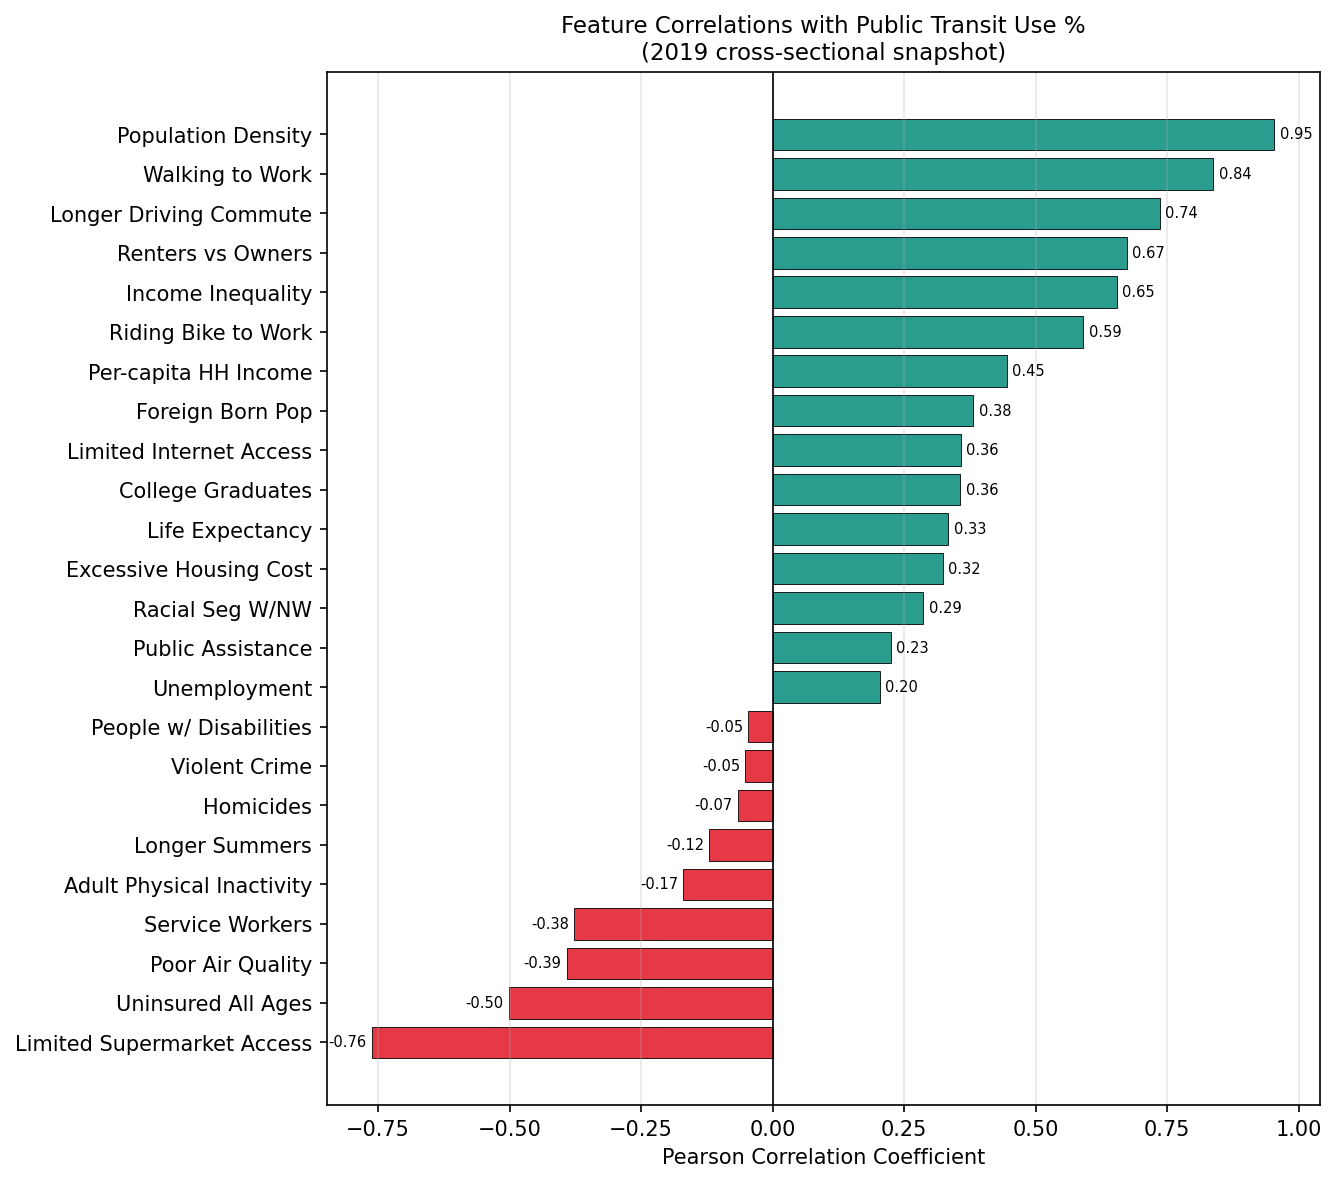
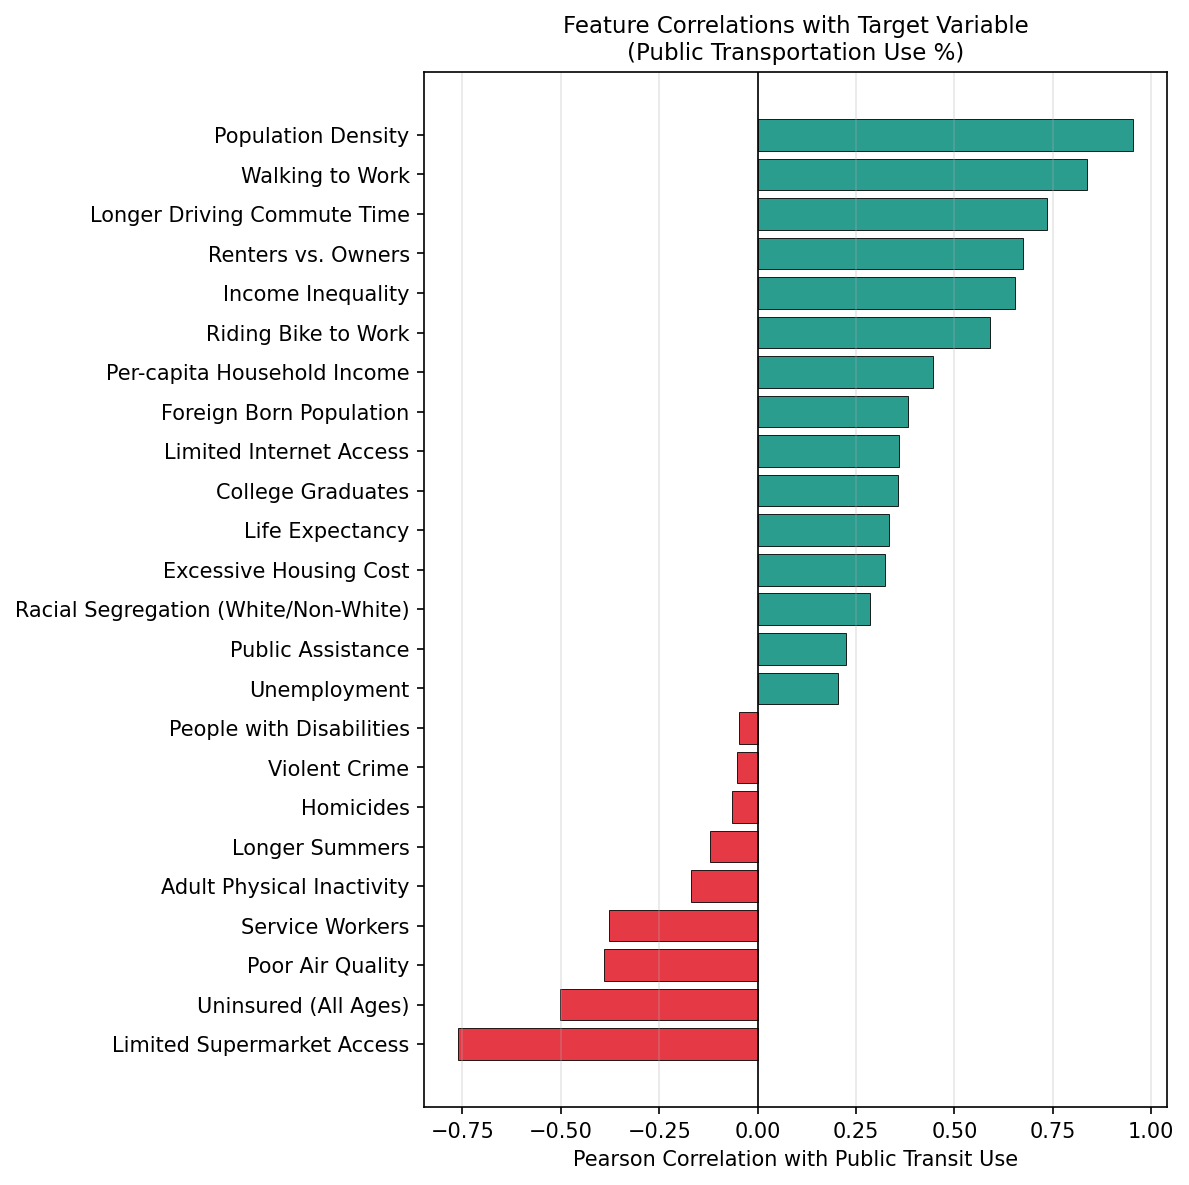
Remove Ridge and Lasso; scope supervised learning to OLS, KNN, Random Forest

diff --git a/supervised/supervised_learning.py b/supervised/supervised_learning.py
@@ -11,6 +11,7 @@ Dataset: Big Cities Health Inventory  (bigcitieshealthdata.org)
 # =============================================================================
 # 0. Imports
 # =============================================================================
+import os
 import warnings
 warnings.filterwarnings("ignore")
 
@@ -20,7 +21,7 @@ import matplotlib.pyplot as plt
 import matplotlib.cm as cm
 import seaborn as sns
 
-from sklearn.linear_model import LinearRegression, Ridge, Lasso
+from sklearn.linear_model import LinearRegression
 from sklearn.neighbors import KNeighborsRegressor
 from sklearn.ensemble import RandomForestRegressor
 from sklearn.preprocessing import StandardScaler
@@ -35,79 +36,41 @@ SEED = 42
 np.random.seed(SEED)
 
 # =============================================================================
-# 1. Data Loading & Pivoting
+# 1. Data Loading
 # =============================================================================
 
-RAW_PATH = "/mnt/user-data/uploads/BigCitiesHealth.csv"
+_HERE    = os.path.dirname(os.path.abspath(__file__))
+DATA_PATH = os.path.join(_HERE, "..", "data", "cities_features_2019.csv")
+OUT_DIR   = os.path.join(_HERE, "outputs")
 
-# --- feature map: descriptive name → exact metric_item_label in dataset ---
-FEATURE_MAP = {
-    "People with Disabilities":             "People with Disabilities",
-    "Adult Physical Inactivity":            "Adult Physical Inactivity",
-    "Life Expectancy":                      "Life Expectancy",
-    "Homicides":                            "Homicides",
-    "Violent Crime":                        "Violent Crime",
-    "Unemployment":                         "Unemployment",
-    "Public Assistance":                    "Public Assistance",
-    "Service Workers":                      "Service Workers",
-    "Excessive Housing Cost":               "Excessive Housing Cost",
-    "Income Inequality":                    "Income Inequality",
-    "Racial Segregation (White/Non-White)": "Racial Segregation, White and Non-White",
-    "Limited Internet Access":              "Limited Internet Access",
-    "College Graduates":                    "College Graduates",
-    "Renters vs. Owners":                   "Renters vs. Owners",
-    "Longer Summers":                       "Longer Summers",
-    "Poor Air Quality":                     "Poor Air Quality",
-    "Longer Driving Commute Time":          "Longer Driving Commute Time",
-    "Walking to Work":                      "Walking to Work",       # proxy for Walkability
-    "Riding Bike to Work":                  "Riding Bike to Work",   # proxy for Bikeability
-    "Limited Supermarket Access":           "Limited Supermarket Access",
-    "Foreign Born Population":              "Foreign Born Population",
-    "Per-capita Household Income":          "Per-capita Household Income",
-    "Population Density":                   "Population Density",
-    "Uninsured (All Ages)":                 "Uninsured, All Ages",
-}
+FEATURE_COLS = [
+    "People with Disabilities", "Adult Physical Inactivity", "Life Expectancy",
+    "Homicides", "Violent Crime", "Unemployment", "Public Assistance",
+    "Service Workers", "Excessive Housing Cost", "Income Inequality",
+    "Racial Segregation (White/Non-White)", "Limited Internet Access",
+    "College Graduates", "Renters vs. Owners", "Longer Summers", "Poor Air Quality",
+    "Longer Driving Commute Time", "Walking to Work", "Riding Bike to Work",
+    "Limited Supermarket Access", "Foreign Born Population",
+    "Per-capita Household Income", "Population Density", "Uninsured (All Ages)",
+]
 
-TARGET_METRIC = "Public Transportation Use"
-
-# Year to use for the cross-sectional snapshot
-# 2019 is the last "normal" pre-COVID year with near-complete coverage
-SNAPSHOT_YEAR = 2019
-
-print("Loading raw data …")
-df_raw = pd.read_csv(RAW_PATH, low_memory=False)
-
-def extract_metric(df, metric_label, year=SNAPSHOT_YEAR):
-    """Return city → value Series for a given metric/year (All race, Both sex)."""
-    mask = (
-        (df["metric_item_label"] == metric_label) &
-        (df["date_label"] == year) &
-        (df["strata_race_label"] == "All") &
-        (df["strata_sex_label"] == "Both") &
-        (df["geo_label_citystate"] != "U.S. Total")
-    )
-    sub = df.loc[mask, ["geo_label_citystate", "value"]].dropna()
-    # If a city appears more than once (shouldn't happen for All/Both), take mean
-    return sub.groupby("geo_label_citystate")["value"].mean()
-
-# Build feature matrix
-frames = {}
-for feat_name, metric_label in FEATURE_MAP.items():
-    frames[feat_name] = extract_metric(df_raw, metric_label)
-
-frames["Public Transportation Use"] = extract_metric(df_raw, TARGET_METRIC)
-
-df_wide = pd.DataFrame(frames).dropna()   # keep only cities with full data
-print(f"\nSnapshot year : {SNAPSHOT_YEAR}")
-print(f"Cities retained (no missing): {len(df_wide)}")
-print(f"Features: {len(FEATURE_MAP)}\n")
+print("Loading data …")
+df_wide = pd.read_csv(DATA_PATH, index_col=0).rename(columns={
+    "People w/ Disabilities":  "People with Disabilities",
+    "Racial Seg W/NW":         "Racial Segregation (White/Non-White)",
+    "Renters vs Owners":       "Renters vs. Owners",
+    "Longer Driving Commute":  "Longer Driving Commute Time",
+    "Foreign Born Pop":        "Foreign Born Population",
+    "Per-capita HH Income":    "Per-capita Household Income",
+    "Uninsured All Ages":      "Uninsured (All Ages)",
+    "Transit":                 "Public Transportation Use",
+})
+print(f"Cities: {len(df_wide)}   Features: {len(FEATURE_COLS)}\n")
 print(df_wide[["Public Transportation Use"]].sort_values("Public Transportation Use", ascending=False).to_string())
 
 # =============================================================================
 # 2. Feature Matrix & Target
 # =============================================================================
-
-FEATURE_COLS = list(FEATURE_MAP.keys())
 
 X_raw = df_wide[FEATURE_COLS].values
 y     = df_wide["Public Transportation Use"].values
@@ -147,7 +110,7 @@ def kfold_eval(model, X, y, k=5, model_name=""):
     return rmse_scores, r2_scores
 
 # =============================================================================
-# 4. MODEL A – Linear Regression (OLS, Ridge, Lasso)
+# 4. MODEL A – Linear Regression (OLS)
 # =============================================================================
 print("\n" + "="*65)
 print("MODEL A: Linear Regression")
@@ -161,34 +124,10 @@ print(f"\n  OLS in-sample  R² = {r2_score(y, y_ols_full):.3f}")
 
 ols_rmse, ols_r2, ols_preds = loo_eval(LinearRegression(), X_scaled, y, "OLS")
 
-# --- 4b. Ridge (alpha tuned via LOO) ---
-alphas = np.logspace(-2, 4, 40)
-ridge_scores = []
-for a in alphas:
-    _, r2_a, _ = loo_eval(Ridge(alpha=a), X_scaled, y, f"Ridge α={a:.3f}")
-    ridge_scores.append(r2_a)
-best_ridge_alpha = alphas[np.argmax(ridge_scores)]
-ridge = Ridge(alpha=best_ridge_alpha)
-ridge_rmse, ridge_r2, ridge_preds = loo_eval(ridge, X_scaled, y, f"Ridge (α={best_ridge_alpha:.3f})")
-
-# --- 4c. Lasso (alpha tuned via LOO) ---
-lasso_scores = []
-for a in alphas:
-    _, r2_a, _ = loo_eval(Lasso(alpha=a, max_iter=10000), X_scaled, y, f"Lasso α={a:.3f}")
-    lasso_scores.append(r2_a)
-best_lasso_alpha = alphas[np.argmax(lasso_scores)]
-lasso = Lasso(alpha=best_lasso_alpha, max_iter=10000)
-lasso_rmse, lasso_r2, lasso_preds = loo_eval(lasso, X_scaled, y, f"Lasso (α={best_lasso_alpha:.3f})")
-
-print(f"\n  Best Ridge α : {best_ridge_alpha:.4f}")
-print(f"  Best Lasso α : {best_lasso_alpha:.4f}")
-
 # OLS coefficients
-ridge.fit(X_scaled, y)
 coef_df = pd.DataFrame({
-    "Feature": FEATURE_COLS,
-    "OLS Coef":   ols.coef_,
-    "Ridge Coef": ridge.coef_,
+    "Feature":  FEATURE_COLS,
+    "OLS Coef": ols.coef_,
 }).sort_values("OLS Coef", key=abs, ascending=False)
 print("\n  Top-10 OLS coefficients (absolute value):")
 print(coef_df.head(10).to_string(index=False))
@@ -262,10 +201,9 @@ print("\n" + "="*65)
 print("SUMMARY: LOO CV Performance")
 print("="*65)
 summary = pd.DataFrame({
-    "Model":     ["OLS", f"Ridge (α={best_ridge_alpha:.4f})", f"Lasso (α={best_lasso_alpha:.4f})",
-                  f"KNN (k={best_k})", "Random Forest"],
-    "LOO-RMSE":  [ols_rmse, ridge_rmse, lasso_rmse, knn_rmse, rf_rmse],
-    "LOO-R²":    [ols_r2,   ridge_r2,   lasso_r2,   knn_r2,   rf_r2],
+    "Model":    ["OLS", f"KNN (k={best_k})", "Random Forest"],
+    "LOO-RMSE": [ols_rmse, knn_rmse, rf_rmse],
+    "LOO-R²":   [ols_r2,   knn_r2,   rf_r2],
 })
 print(summary.to_string(index=False))
 
@@ -306,19 +244,17 @@ def city_color(city):
     region = REGION.get(city, "Other")
     return REGION_COLORS[region]
 
-fig, axes = plt.subplots(2, 3, figsize=(18, 11))
+fig, axes = plt.subplots(1, 4, figsize=(22, 6))
 fig.suptitle("Supervised Learning: Predicting Public Transit Use\nLinear Algebros — Miguel Cuevas", fontsize=14, fontweight="bold")
 
 # --- 8a. Actual vs Predicted for each model ---
 model_preds = {
-    "OLS":            ols_preds,
-    f"Ridge":         ridge_preds,
-    f"Lasso":         lasso_preds,
+    "OLS":               ols_preds,
     f"KNN (k={best_k})": knn_preds,
-    "Random Forest":  rf_preds,
+    "Random Forest":     rf_preds,
 }
 
-ax_pairs = [axes[0,0], axes[0,1], axes[0,2], axes[1,0], axes[1,1]]
+ax_pairs = [axes[0], axes[1], axes[2]]
 for ax, (mname, preds) in zip(ax_pairs, model_preds.items()):
     colors = [city_color(c) for c in cities]
     ax.scatter(y, preds, c=colors, s=60, edgecolors="k", linewidths=0.4, zorder=3)
@@ -333,7 +269,7 @@ for ax, (mname, preds) in zip(ax_pairs, model_preds.items()):
     r2_val = 1 - ss_res/ss_tot
     ax.set_xlabel("Actual % Public Transit Use", fontsize=9)
     ax.set_ylabel("LOO-Predicted %", fontsize=9)
-    ax.set_title(f"{mname}\nLOO-RMSE={rmse_val:.2f}, R²={r2_loo:.3f}", fontsize=9)
+    ax.set_title(f"{mname}\nLOO-RMSE={rmse_val:.2f}, R²={r2_val:.3f}", fontsize=9)
     ax.grid(alpha=0.3)
     # region legend once
     if mname == "OLS":
@@ -342,12 +278,12 @@ for ax, (mname, preds) in zip(ax_pairs, model_preds.items()):
         ax.legend(handles=handles, fontsize=6, loc="upper left", framealpha=0.7)
 
 # --- 8b. Model comparison bar chart ---
-ax6 = axes[1,2]
-model_names_short = ["OLS", "Ridge", "Lasso", f"KNN\n(k={best_k})", "RF"]
-rmse_vals = [ols_rmse, ridge_rmse, lasso_rmse, knn_rmse, rf_rmse]
-r2_vals   = [ols_r2,   ridge_r2,   lasso_r2,   knn_r2,   rf_r2]
+ax6 = axes[3]
+model_names_short = ["OLS", f"KNN\n(k={best_k})", "RF"]
+rmse_vals = [ols_rmse, knn_rmse, rf_rmse]
+r2_vals   = [ols_r2,   knn_r2,   rf_r2]
 x_pos = np.arange(len(model_names_short))
-bars = ax6.bar(x_pos, rmse_vals, color=["#4c72b0","#55a868","#c44e52","#8172b2","#ccb974"],
+bars = ax6.bar(x_pos, rmse_vals, color=["#4c72b0","#8172b2","#ccb974"],
                edgecolor="k", linewidth=0.6, width=0.55)
 ax6.set_xticks(x_pos)
 ax6.set_xticklabels(model_names_short, fontsize=9)
@@ -359,7 +295,7 @@ for bar, r2v in zip(bars, r2_vals):
              f"R²={r2v:.2f}", ha="center", va="bottom", fontsize=7.5)
 
 plt.tight_layout()
-plt.savefig("/mnt/user-data/outputs/miguel_actual_vs_predicted.png", dpi=150, bbox_inches="tight")
+plt.savefig(os.path.join(OUT_DIR, "miguel_actual_vs_predicted.png"), dpi=150, bbox_inches="tight")
 plt.close()
 print("\nSaved: miguel_actual_vs_predicted.png")
 
@@ -396,7 +332,7 @@ ax.set_title("OLS Coefficients\n(standardized)", fontsize=10)
 ax.grid(axis="x", alpha=0.3)
 
 plt.tight_layout()
-plt.savefig("/mnt/user-data/outputs/miguel_feature_importance.png", dpi=150, bbox_inches="tight")
+plt.savefig(os.path.join(OUT_DIR, "miguel_feature_importance.png"), dpi=150, bbox_inches="tight")
 plt.close()
 print("Saved: miguel_feature_importance.png")
 
@@ -410,29 +346,11 @@ ax.set_title("KNN: Choosing k via Leave-One-Out CV", fontsize=11)
 ax.legend(fontsize=9)
 ax.grid(alpha=0.3)
 plt.tight_layout()
-plt.savefig("/mnt/user-data/outputs/miguel_knn_k_selection.png", dpi=150, bbox_inches="tight")
+plt.savefig(os.path.join(OUT_DIR, "miguel_knn_k_selection.png"), dpi=150, bbox_inches="tight")
 plt.close()
 print("Saved: miguel_knn_k_selection.png")
 
-# --- 8e. Ridge/Lasso alpha tuning ---
-fig, axes3 = plt.subplots(1, 2, figsize=(12, 4))
-for ax, scores, best_a, label, color in [
-    (axes3[0], ridge_scores, best_ridge_alpha, "Ridge", "#55a868"),
-    (axes3[1], lasso_scores, best_lasso_alpha, "Lasso", "#c44e52"),
-]:
-    ax.semilogx(alphas, scores, "o-", color=color, lw=2, ms=4)
-    ax.axvline(best_a, color="k", lw=1.5, linestyle="--", label=f"Best α={best_a:.4f}")
-    ax.set_xlabel("α (regularization strength)", fontsize=10)
-    ax.set_ylabel("LOO-R²", fontsize=10)
-    ax.set_title(f"{label}: Choosing α via LOO CV", fontsize=11)
-    ax.legend(fontsize=9)
-    ax.grid(alpha=0.3)
-plt.tight_layout()
-plt.savefig("/mnt/user-data/outputs/miguel_regularization_tuning.png", dpi=150, bbox_inches="tight")
-plt.close()
-print("Saved: miguel_regularization_tuning.png")
-
-# --- 8f. Correlation heatmap of features vs target ---
+# --- 8e. Correlation heatmap of features vs target ---
 corr_data = df_wide[FEATURE_COLS + ["Public Transportation Use"]].corr()
 target_corr = corr_data["Public Transportation Use"].drop("Public Transportation Use").sort_values()
 fig, ax = plt.subplots(figsize=(8, 8))
@@ -443,13 +361,9 @@ ax.set_xlabel("Pearson Correlation with Public Transit Use", fontsize=10)
 ax.set_title("Feature Correlations with Target Variable\n(Public Transportation Use %)", fontsize=11)
 ax.grid(axis="x", alpha=0.3)
 plt.tight_layout()
-plt.savefig("/mnt/user-data/outputs/miguel_feature_correlations.png", dpi=150, bbox_inches="tight")
+plt.savefig(os.path.join(OUT_DIR, "miguel_feature_correlations.png"), dpi=150, bbox_inches="tight")
 plt.close()
 print("Saved: miguel_feature_correlations.png")
 
-# --- 8g. Save cleaned wide-format data for teammates ---
-df_wide.to_csv("/mnt/user-data/outputs/cities_features_2019.csv")
-print("Saved: cities_features_2019.csv  (pivot table for teammates)")
-
-print("\n✓ All outputs written to /mnt/user-data/outputs/")
+print(f"\n✓ All outputs written to {OUT_DIR}")
 print("\nDone.")

diff --git a/README.md b/README.md
@@ -26,7 +26,6 @@ We predict the percentage of commuters using public transportation across 35 maj
 ```
 linear-algebros/
 ├── data/
-│   ├── BigCitiesHealth.csv          # raw BCHI dataset (original)
 │   └── cities_features_2019.csv     # cleaned wide-format pivot (2019 snapshot)
 ├── pca/                             # Devki & Ignacio — R
 │   ├── pca_analysis.Rmd
@@ -99,9 +98,9 @@ The cleaned, wide-format dataset (`data/cities_features_2019.csv`) is the starti
 - Compare embedding structure to PCA
 
 ### 3. Supervised Learning (`supervised/`) — Miguel
-- **Models:** OLS, Ridge, Lasso, KNN, Random Forest
+- **Models:** Linear Regression (OLS), KNN, Random Forest
 - **Evaluation:** Leave-One-Out CV (LOO) — chosen because n = 35
-- **Best model:** Ridge regression (LOO-R² = 0.801, LOO-RMSE = 4.18 pp)
+- **Best model:** OLS (LOO-R² = 0.750, LOO-RMSE = 4.67 pp)
 
 ---
 
@@ -128,5 +127,5 @@ Then knit the relevant `.Rmd` file.
 
 - **Population density** is by far the strongest predictor of transit use (r = 0.95)
 - **Northeast cities** (NYC, Boston, DC, SF) cluster at high transit use; **Southern and Western cities** cluster at low use — consistent with our hypothesis
-- **Ridge regression** outperforms all other models under LOO-CV, confirming that regularization is essential with n = 35 and p = 24
-- Tree-based methods (Random Forest) underperform on this small dataset
+- **OLS** outperforms KNN and Random Forest under LOO-CV (LOO-R² = 0.750), suggesting the relationship between features and transit use is largely linear
+- Tree-based methods (Random Forest) underperform on this small dataset (n = 35)
